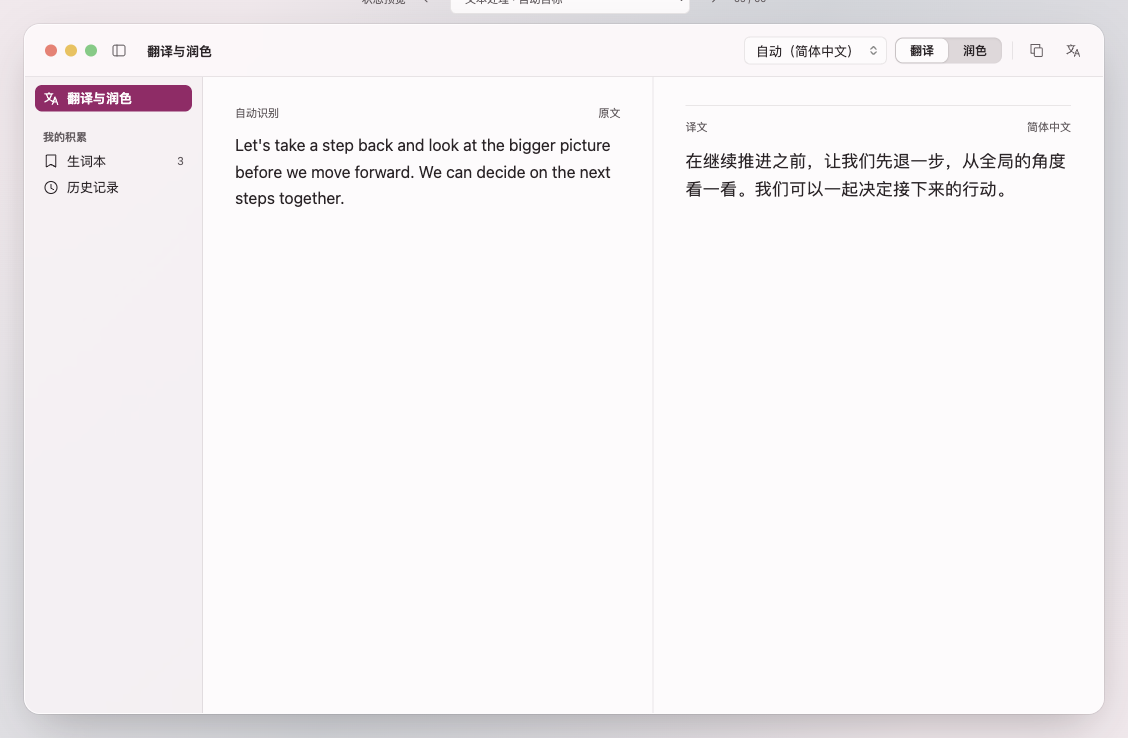
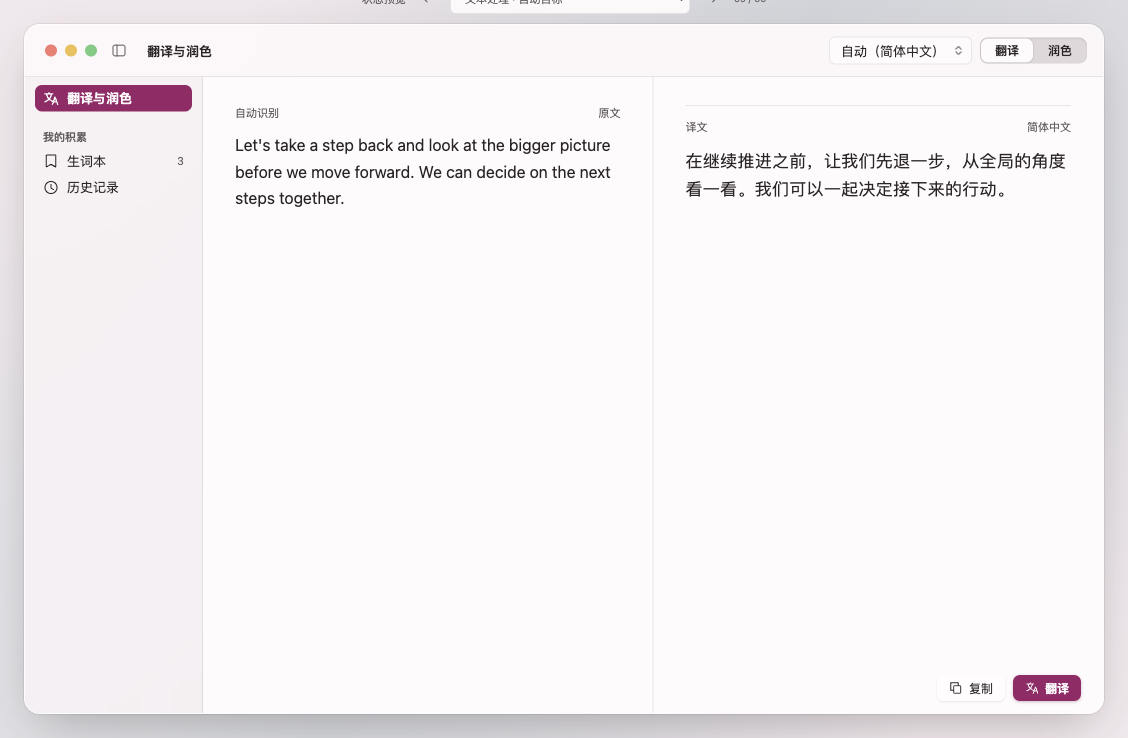
feat(page): float the actions at the content's bottom-trailing corner
按反馈把复制与提交从窗口工具栏挪到内容右下角的贴底动作条。

先说结论：macOS 上做不到「底部工具栏」。Toolbars 那页写的是「工具栏可以在视图的顶部或底部边缘」，
但 SwiftUI 的 `ToolbarItemPlacement.bottomBar` 可用平台是 iOS / iPadOS / **Mac Catalyst** / tvOS /
visionOS / watchOS，没有 macOS。macOS 26 上对应的原生 API 是 `safeAreaBar(edge: .bottom)`：贴底、
参与安全区，内容从它下面滚过（滚动边缘效果），配合 trailing 对齐与玻璃按钮就是「浮在右下角」的样子。

于是工具栏只留控件组（目标语言、处理方式），动作条是 `Spacer()` + `GlassEffectContainer` 里的
`复制结果` / `翻译`／`润色`（处理中换成 `取消`），快捷键仍由菜单项持有。设计图同步。

Changed region(s): [[0.6516, 0.0312, 0.9619, 0.0935], [0.8378, 0.9038, 0.9619, 0.9661]]

diff --git a/design/index.html b/design/index.html
@@ -102,7 +102,8 @@ select.popup{appearance:none;-webkit-appearance:none;height:28px;padding:0 26px 
 .page{display:flex;flex-direction:column;min-height:0;min-width:0;background:oklch(99% .003 350)}
 .body{padding:28px 32px;overflow-y:auto;flex:1;min-height:0}
 /* 翻译与润色页：两侧都可以滚动，同时可见——上下排平分高度，左右排平分宽度。 */
-.body.processing{padding:0;overflow:hidden;display:flex;flex-direction:column}
+.body.processing{padding:0;overflow:hidden;display:flex;flex-direction:column;position:relative}
+.actionbar{position:absolute;right:22px;bottom:12px;z-index:5;display:flex;gap:8px}
 .body.processing>.pane{flex:1 1 0;min-height:0;overflow-y:auto;padding:28px 32px}
 .body.processing>.pane+.pane{border-top:1px solid var(--line)}
 .window:not(.window-narrow) .body.processing{flex-direction:row}
@@ -634,12 +635,8 @@ function appbarTools(){
   if(appPage==='history')return `${searchFieldHTML('搜索原文或结果','')}<select class="popup" aria-label="筛选类型"><option>全部类型</option><option>翻译</option><option>润色</option></select><span class="tb-sep" aria-hidden="true"></span><button class="tb" aria-label="清空历史" title="清空历史">${icon('trash')}</button>`;
   if(appPage!=='processing')return '';
   const busy=phase==='loading';
-  const actions=busy
-    ?`<span class="tb-sep" aria-hidden="true"></span><button class="tb" aria-label="取消" title="取消">${icon('stop')}</button>`
-    :`<span class="tb-sep" aria-hidden="true"></span><button class="tb" aria-label="复制结果" title="复制结果 ⌘⇧C" ${phase==='result'?'':'disabled'}>${icon('copy')}</button><button class="tb" aria-label="${currentOperation()==='polish'?'润色':'翻译'}" title="${currentOperation()==='polish'?'润色文本':'翻译文本'} ⌘↩">${icon(currentOperation()==='polish'?'spark':'translate')}</button>`;
   return (currentOperation()==='polish'?'':targetSelectHTML(busy))
-   +`<div class="segmented" role="group" aria-label="处理方式"><button role="radio" aria-checked="${currentOperation()==='translate'}" ${busy?'disabled':''} onclick="setOperation('translate')">翻译</button><button role="radio" aria-checked="${currentOperation()==='polish'}" ${busy?'disabled':''} onclick="setOperation('polish')">润色</button></div>`
-   +actions;
+   +`<div class="segmented" role="group" aria-label="处理方式"><button role="radio" aria-checked="${currentOperation()==='translate'}" ${busy?'disabled':''} onclick="setOperation('translate')">翻译</button><button role="radio" aria-checked="${currentOperation()==='polish'}" ${busy?'disabled':''} onclick="setOperation('polish')">润色</button></div>`;
 }
 function setOperation(v){operationOverride=v;render()}
 // 目标语言控件（提案 BDR-0003）：默认为自动，显示按映射解析出的目标；显式选择语言则持久覆盖映射，
@@ -668,7 +665,11 @@ function processingHTML(){
   // 动作搬到工具栏（HIG Toolbars）：控件一组，动作一组，全部是图标按钮。
   const learning=cfg().learning?learningBlockHTML(cfg().learning):'';
   // 两侧各自滚动、平分可用高度（左右排时平分宽度），学习表达跟在结果下面。
-  return `<div class="body processing" id="body"><div class="pane">${source}</div><div class="pane">${resultSection}${learning}${status}</div></div>`;
+  // 动作浮在内容右下角：macOS 没有底部工具栏，用贴底的动作条充当。
+  const actions=busy
+    ?`<button class="glass-btn" aria-label="取消" title="取消">${icon('stop')} 取消</button>`
+    :`<button class="glass-btn" aria-label="复制结果" title="复制结果 ⌘⇧C" ${done?'':'disabled'}>${icon('copy')} 复制</button><button class="glass-btn prominent" aria-label="${op==='polish'?'润色':'翻译'}" title="${op==='polish'?'润色文本':'翻译文本'} ⌘↩">${icon(op==='polish'?'spark':'translate')} ${op==='polish'?'润色':'翻译'}</button>`;
+  return `<div class="body processing" id="body"><div class="pane">${source}</div><div class="pane">${resultSection}${learning}${status}</div><div class="actionbar">${actions}</div></div>`;
 }
 function bindingOf(key){if(shortcutDraft&&shortcutDraft.key===key)return shortcutDraft.label;return conflict&&key==='translate'?'⌃⌥T':null}
 function shortcutsHTML(){
@@ -1038,8 +1039,8 @@ window.checkDesignStates=()=>{
       if(!frame.querySelector('.appbar .appbar-tools'))throw Error(id+': 缺少工具栏');
       if(!frame.querySelector('.body'))throw Error(id+': 缺少内容区');
       if(c.surface==='settings'&&!frame.querySelector('.settings-tabs'))throw Error(id+': 缺少标签页栏');
-      // The processing page keeps its actions in the toolbar; there is no bottom action bar.
-      if(c.page==='processing'&&!frame.querySelector('.appbar-tools .tb'))throw Error(id+': 工具栏缺少动作');
+      // The processing page floats its actions at the content's bottom-trailing corner.
+      if(c.page==='processing'&&!frame.querySelector('.actionbar'))throw Error(id+': 缺少浮起的动作条');
     }else{
       const strip=frame.querySelector('.strip'),footer=frame.querySelector('.footer');
       if(!frame.classList.contains('floating'))throw Error(id+': 应为浮动面板');

diff --git a/Owlet/Processing/TranslationView.swift b/Owlet/Processing/TranslationView.swift
@@ -182,6 +182,10 @@ struct TranslationView: View {
             // Two groups, controls then actions, as a toolbar is meant to be read: the first decides what
             // is processed, the second acts on the result. The system spreads the groups apart and moves
             // what does not fit into its own overflow menu.
+            // The controls stay in the window toolbar. macOS has no bottom *toolbar* — SwiftUI's
+            // `ToolbarItemPlacement.bottomBar` is iOS and Catalyst only — so the two actions live in the
+            // platform's bottom bar instead, trailing-aligned, which is what reads as floating over the
+            // content's corner.
             .toolbar {
                 ToolbarItemGroup(placement: .primaryAction) {
                     if model.operation == .translate {
@@ -195,30 +199,40 @@ struct TranslationView: View {
                     .fixedSize()
                     .disabled(isBusy)
                 }
-                ToolbarItemGroup(placement: .primaryAction) {
-                    if isBusy {
-                        Button(action: model.cancel) {
-                            Label("取消", systemImage: "xmark")
+            }
+            .safeAreaBar(edge: .bottom) {
+                HStack(spacing: 8) {
+                    Spacer(minLength: 0)
+                    GlassEffectContainer {
+                        HStack(spacing: 8) {
+                            if isBusy {
+                                Button(action: model.cancel) {
+                                    Label("取消", systemImage: "xmark")
+                                }
+                                .buttonStyle(.glass)
+                                .help("取消")
+                            } else {
+                                Button(action: copyResult) {
+                                    Label("复制结果", systemImage: "doc.on.doc")
+                                }
+                                .buttonStyle(.glass)
+                                .help("复制结果 ⌘⇧C")
+                                .disabled(result == nil)
+                                Button {
+                                    model.translate(to: resolvedTarget)
+                                } label: {
+                                    Label(model.operation.title, systemImage: submitSymbol)
+                                }
+                                .buttonStyle(.glassProminent)
+                                .help("\(model.operation.title)文本 ⌘↩")
+                                .disabled(
+                                    model.input.trimmingCharacters(in: .whitespacesAndNewlines).isEmpty)
+                            }
                         }
-                        .labelStyle(.iconOnly)
-                        .help("取消")
-                    } else {
-                        Button(action: copyResult) {
-                            Label("复制结果", systemImage: "doc.on.doc")
-                        }
-                        .labelStyle(.iconOnly)
-                        .help("复制结果 ⌘⇧C")
-                        .disabled(result == nil)
-                        Button {
-                            model.translate(to: resolvedTarget)
-                        } label: {
-                            Label(model.operation.title, systemImage: submitSymbol)
-                        }
-                        .labelStyle(.iconOnly)
-                        .help("\(model.operation.title)文本 ⌘↩")
-                        .disabled(model.input.trimmingCharacters(in: .whitespacesAndNewlines).isEmpty)
                     }
                 }
+                .padding(.horizontal, 22)
+                .padding(.vertical, 12)
             }
     }
 

diff --git a/docs/liquid-glass-components.md b/docs/liquid-glass-components.md
@@ -80,7 +80,7 @@
 
 | 截图 | 已落到设计里的系统组件 |
 | --- | --- |
-| `workspace*.png`（结果、空输入、已输入、处理中、润色结果、请求失败、服务未配置、侧栏收起） | 统一工具栏（跨整窗）· 侧栏切换 · 控件组（弹出式按钮 `简体中文`、分段控件 `翻译｜润色`）· 动作组（图标按钮：`复制结果`、`翻译`／`润色`，处理中换成 `取消`）· `TextEditor` · 结果区 `.redacted` 占位 · 行内 `StatusNote`；两侧同时可见并各自滚动（宽窗口左右平分宽度、窄窗口上下平分高度），学习表达跟在译文／润色下面；这一页没有底部操作栏 |
+| `workspace*.png`（结果、空输入、已输入、处理中、润色结果、请求失败、服务未配置、侧栏收起） | 统一工具栏（跨整窗）· 侧栏切换 · 控件组（弹出式按钮 `简体中文`、分段控件 `翻译｜润色`）· 内容右下角浮起的动作条（`复制结果`、`翻译`／`润色`，处理中换成 `取消`，玻璃按钮包在 `GlassEffectContainer` 里）· `TextEditor` · 结果区 `.redacted` 占位 · 行内 `StatusNote`；两侧同时可见并各自滚动（宽窗口左右平分宽度、窄窗口上下平分高度），学习表达跟在译文／润色下面；这一页没有底部操作栏 |
 | `settings-shortcuts.png` / `settings-shortcuts-recording.png` / `settings-shortcuts-conflict.png` | 设置窗口的快捷键页：`Form` 的两个 `Section`（`全局` 录制器 / `面板内` 固定键）· 录制按钮（例外 2）· `清除` · 每个分组的 footer 承载说明与冲突提示 |
 | `settings-general.png` | 独立设置窗口：`Settings` scene 的标题栏 + `TabView` 标签页切换器（不可自定义、始终可见）· 每页 inset grouped `Form` 的多个 `Section`；通用页含「文本处理」分组（翻译显示方式）；工具栏一页为快捷键页 |
 | `settings-language-empty.png` / `settings-language-rows.png` | 语言页：「语言」分组（已选语言逐行 `LabeledContent` + 删除按钮，`添加语言` 才展示完整系统清单）+「目标语言」分组（兜底目标 `Picker(.menu)`、一行一源语言的映射、`添加映射`） |

diff --git a/spec/DESIGN.md b/spec/DESIGN.md
@@ -8,7 +8,7 @@
   1. **Liquid Glass 只属于功能层**——工具栏、侧边栏、浮动面板、弹出视图。内容层（正文、结果、卡片、列表行、分组容器）用系统材质，绝不叠玻璃。
   2. **能用系统组件就不用自定义**——系统组件自动获得 Liquid Glass 外观、Vibrancy、焦点环、键盘与 VoiceOver 支持，以及 Reduce Transparency / Increase Contrast / Reduce Motion 适配。
 - 窗口骨架用系统组件：`Window` scene + `NavigationSplitView`（侧栏可收起，`⌃⌘S`）、`.toolbar`、`List` 与 `MenuBarExtra`。独立 `Settings` scene 未实现（设置是主窗口的侧栏页面），`.searchable` 与 `ContentUnavailableView` 原本服务于生词本与历史，同样未落地，见 [docs/unimplemented-features.md](../docs/unimplemented-features.md)。
-- 按钮按层选样式：工具栏项用系统工具栏按钮（翻译与润色页的复制与提交就是图标按钮，靠 `.help()` 给提示）；动作行（浮动面板底部）统一用 `.glass` / `.glassProminent`，包在 `GlassEffectContainer` 中。应用窗口不再有底部操作栏，设置窗口的页脚也随之取消。
+- 按钮按层选样式：工具栏项用系统工具栏按钮；动作行统一用 `.glass` / `.glassProminent`，包在 `GlassEffectContainer` 中——翻译与润色页把动作放在内容右下角贴底的动作条里，浮动面板放在自己的底部。设置窗口的页脚已取消。
 - 每屏只有一个主要动作，放在 trailing 端；翻译与润色页把它放在工具栏动作组的末端。
 - 使用系统强调色、系统语义色、系统字体与 SF Symbols。品牌玫瑰色只作为应用 `AccentColor` 资源，出现在强调色、prominent 动作、选中态与状态指示，不散布到各视图的 tint。
 - 不提供应用级外观开关；浅色与深色都走系统语义色。

diff --git a/design/README.md b/design/README.md
@@ -84,7 +84,7 @@ Scrollable content retains its designed viewport; source text is the built-in En
 | [learning-empty.png](screenshots/learning-empty.png) | 学习 · 无推荐 | 没有推荐时不强凑数量，保留手动收藏。 |
 | [saved.png](screenshots/saved.png) | 收藏 · 已入库 | 收藏后就地反馈并保留入口，不跳转打断工作。 |
 | [aligned.png](screenshots/aligned.png) | 翻译 · 逐句对照 | 原文与译文按语义句子配对，换行不改变对应关系。 |
-| [workspace-narrow.png](screenshots/workspace-narrow.png) | 文本处理 · 窄窗口 | 内容区不足 720pt 时原文与译文上下堆叠；提案的另一半是宽窗口并排。 |
+| [workspace-narrow.png](screenshots/workspace-narrow.png) | 翻译与润色 · 窄窗口 | 内容区不足 720pt 时原文与译文上下平分高度；宽窗口时左右平分宽度。 |
 | [success.png](screenshots/success.png) | 直接替换 · 完成 | 写回成功后确认替换并保留译文，按 Esc 或完成返回工作；应用现在写回成功即关闭面板，没有确认屏。 |
 | [workspace-auto.png](screenshots/workspace-auto.png) | 文本处理 · 自动目标 | 工具栏目标语言为“自动”，显示按映射解析出的目标；手动选择语言可持久覆盖，直到切回自动。 |
 | [workspace-target-pinned.png](screenshots/workspace-target-pinned.png) | 文本处理 · 手动指定目标 | 用户显式选择了日本語：该选择覆盖映射并持久保留，控件不再显示自动。 |

diff --git a/tasks/todo.md b/tasks/todo.md
@@ -778,7 +778,7 @@
 
 **验收条件：**
 - [x] 工具栏分两组：控件组（目标语言、处理方式）与动作组（复制结果、提交；处理中换成取消），动作全部是图标按钮，`Label` + `.help()` 承担提示与无障碍名称。
-- [x] 页面不再有底部操作栏，`PageFooter` 随之删除。
+- [x] 两个动作先搬到工具栏，再按反馈落到内容右下角的贴底动作条（`safeAreaBar(edge: .bottom)` + trailing 对齐 + 玻璃按钮）；macOS 没有底部工具栏（`.bottomBar` 仅 iOS/Catalyst），`PageFooter` 已删除，页脚内容就地写在页面里。
 - [x] 页面改名为「翻译与润色」（侧栏、窗口标题）。
 - [x] 两种排列都同时显示两侧并各自滚动：宽窗口左右平分宽度，窄窗口上下平分高度；页面不再整体滚动把另一侧挤出窗口。
 - [x] 学习表达跟在译文／润色下面（属于结果，跟在整页下面不对）。
